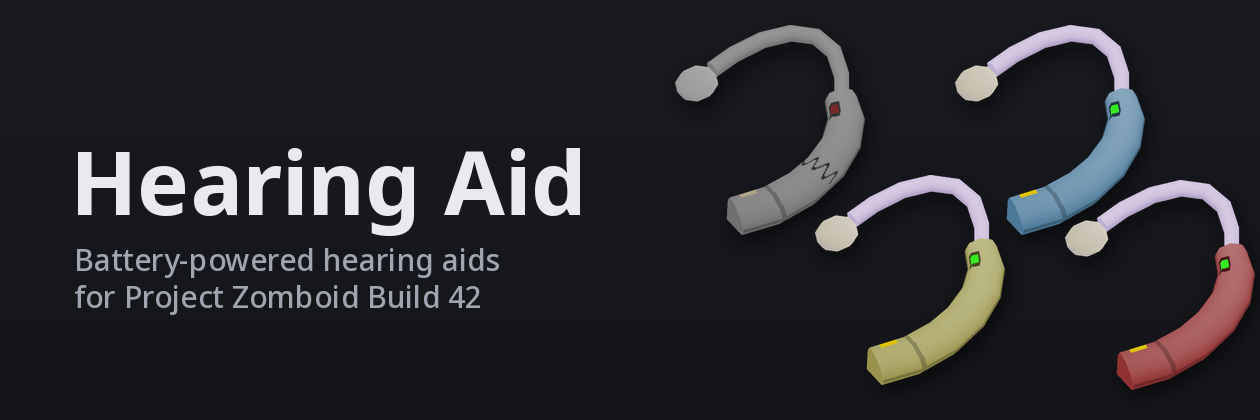
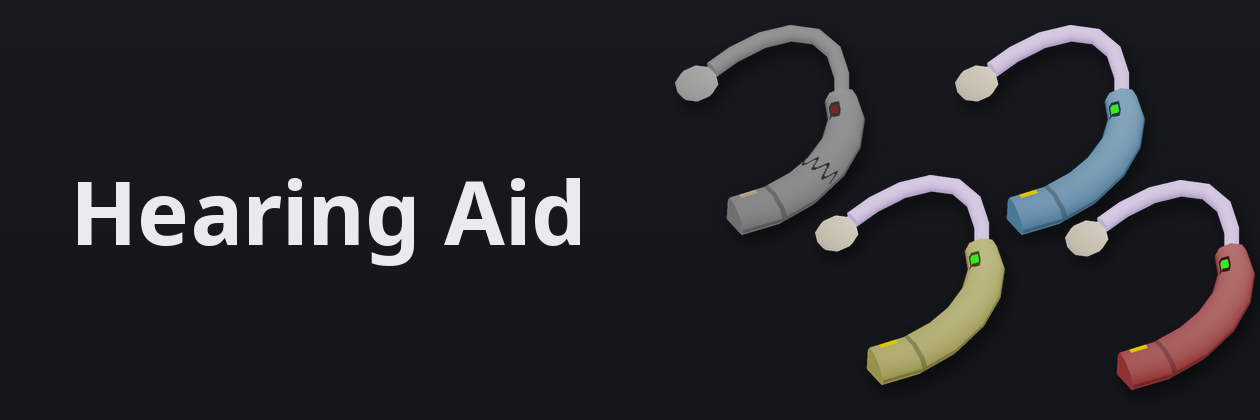
Raise hearing aid loot 20% and lead the docs with what the mod is for
Every loot weight is 20% higher than the halved values, except the efficient aids in containers, which stay at the game's smallest chance. A broken aid is now about 4 times rarer than a wristwatch and a working one about 7 times rarer: in 12,000 ordinary corpses, 7.3% carry a broken aid, 4.5% a working one, and 11.4% any aid. hearingaid_corpse_loot checks the new bounds.

The README and Workshop page open with what the mod gives a Deaf or Hard of Hearing character: a way out of the trait. They call each tier a hearing aid model, never "the aids", and list the sandbox options as bullets under their in-game names. The banner and mod.info drop the "battery-powered hearing aids for Project Zomboid" tagline.

Changed region(s): [[0.0619, 0.3405, 0.4643, 0.7429]]

diff --git a/art/promo/compose.py b/art/promo/compose.py
@@ -133,8 +133,7 @@ def save(image, name):
 
 def banner():
     image = canvas(420)
-    text(image, (70, 120), "Hearing Aid", 88, "Bold")
-    text(image, (74, 238), "Battery-powered hearing aids\nfor Project Zomboid Build 42", 30, "Medium", MUTED)
+    text(image, (70, 210), "Hearing Aid", 88, "Bold", anchor="lm")
     positions = [(770, 130), (910, 280), (1050, 130), (1160, 285)]
     for tier, centre in zip(TIERS, positions):
         paste(image, fit(trim(capture(f"model_{tier}")), 210, 210), centre)

diff --git a/README.md b/README.md
@@ -1,6 +1,6 @@
-# ![Hearing Aid: battery-powered hearing aids for Project Zomboid Build 42](art/promo/images/banner.png)
+# ![Hearing Aid](art/promo/images/banner.png)
 
-Battery-powered hearing aids for Project Zomboid. Wear a working aid and switch it on, and a Hard of Hearing character hears normally while a Deaf one hears a little. A boosted aid gives Keen Hearing to anyone who isn't Deaf.
+Take Deaf or Hard of Hearing and work your way out of it. Most hearing aids you find are broken. Repair one, and a Hard of Hearing character hears normally. Upgrade it twice, and a Deaf character hears normally too, while anyone else gets Keen Hearing. Working hearing aids run on batteries.
 
 **Status**: Requires Build 42.21 or newer. Tested in single player on 42.21.0. Multiplayer is untested: the server owns battery drain and hearing traits, and the mod loads on a dedicated server, but nobody has played it with clients connected.
 
@@ -8,48 +8,48 @@ Battery-powered hearing aids for Project Zomboid. Wear a working aid and switch 
 
 Subscribe on the [Steam Workshop page](https://steamcommunity.com/sharedfiles/filedetails/?id=2931424725) and enable **Hearing Aid** in the mod list. Build 41 loads the original release, which this repository keeps unchanged in `Contents/mods/HearingAid/media`.
 
-## The aids
+## Hearing aid models
 
-<p align="center"><img src="art/promo/images/tiers.png" alt="Each of the four aids as a 3D model, worn behind a right ear, and as an inventory icon" width="100%"></p>
+<p align="center"><img src="art/promo/images/tiers.png" alt="Each of the four hearing aid models in 3D, worn behind a right ear, and as an inventory icon" width="100%"></p>
 
-| Aid | Hard of Hearing becomes | Deaf becomes | A battery lasts | How you get one |
+| Model | Hard of Hearing becomes | Deaf becomes | A battery lasts | How you get one |
 |---|---|---|---|---|
-| Broken Hearing Aid | no change | no change | | Most aids you find are broken |
+| Broken Hearing Aid | no change | no change | | Most hearing aids you find are broken |
 | Hearing Aid | Normal hearing | Hard of Hearing | 2 days | Find one, or repair a broken one |
 | Efficient Hearing Aid | Normal hearing | Hard of Hearing | 6 days | A lucky find, or optimize a hearing aid |
-| Boosted Hearing Aid | Keen Hearing | Normal hearing | 4 days | Boost an efficient aid |
+| Boosted Hearing Aid | Keen Hearing | Normal hearing | 4 days | Boost an Efficient Hearing Aid |
 
-A boosted aid also gives Keen Hearing to a character whose hearing is normal.
+A Boosted Hearing Aid also gives Keen Hearing to a character whose hearing is normal.
 
 ## Wearing one
 
 <p align="center"><img src="art/promo/images/ears.png" alt="A man wearing a hearing aid on his right ear and a woman wearing one on her left, above the Wear menu with its on Right Ear and on Left Ear options" width="100%"></p>
 
-To hear better, you need a working aid with a charged battery, on your ear and switched on:
+To hear better, you need a working hearing aid with a charged battery, on your ear and switched on:
 
-1. Find a working aid, or find a broken one and [repair it](#crafting).
-2. Right-click the aid and choose **Add Battery**. It takes the same Battery as a flashlight, and the menu lists yours by charge.
-3. Right-click the aid, choose **Wear**, and pick **on Right Ear** or **on Left Ear**. Then right-click it again and choose **Turn On**. The same menu moves a worn aid to your other ear.
+1. Find a working hearing aid, or find a broken one and [repair it](#crafting).
+2. Right-click it and choose **Add Battery**. It takes the same Battery as a flashlight, and the menu lists yours by charge.
+3. Right-click it, choose **Wear**, and pick **on Right Ear** or **on Left Ear**. Then right-click it again and choose **Turn On**. The same menu moves it to your other ear.
 
 <p align="center"><img src="art/promo/images/interface.png" alt="Tooltips of a switched-off Hearing Aid with 40% battery, a switched-on Boosted Hearing Aid with 73%, and a Broken Hearing Aid" width="100%"></p>
 
-The battery drains only while the aid is worn and switched on, so switch it off when you don't need it. The tooltip shows the charge and whether the aid is on. Take the aid off, switch it off, or let the battery run flat, and you hear as you did before. **Remove Battery** gives the battery back with whatever charge it has left.
+The battery drains only while the hearing aid is worn and switched on. The tooltip shows the charge and whether it's on. Take it off, switch it off, or let the battery run flat, and you hear as you did before. **Remove Battery** gives the battery back with whatever charge it has left.
 
 ## Finding one
 
 <p align="center"><img src="art/promo/images/corpse.png" alt="A grey-haired survivor next to a corpse whose loot window lists a Hearing Aid" width="100%"></p>
 
-Most hearing aids in Knox County are still in their owners' ears, and the owners won't mind if you take them, so search the dead first. Zombies dressed as retirees carry them most often, and they gather in nursing homes, trailer parks, golf courses, country clubs, and rich neighborhoods. Hospital patients come next. Other zombies carry them less often.
+Most hearing aids are still in their owners' ears, and the owners won't mind if you take them, so search the dead first. Zombies dressed as retirees carry them most often, and they gather in nursing homes, trailer parks, golf courses, country clubs, and rich neighborhoods. Hospital patients come next. Other zombies carry them less often.
 
-Off the ear, hospitals hold the most: the wardrobes beside patients' beds, doctors' desks, which hold only working aids, and waiting room desks. Lost and found boxes hold some too. In houses, look in bedside tables, dressers, living room side tables, bathroom cabinets and counters, and boxes of old electronics. Pharmacies, optical stores, and electronics stores didn't sell hearing aids in 1993, so they have none.
+Off the ear, hospitals hold the most: the wardrobes beside patients' beds, doctors' desks, which hold only working ones, and waiting room desks. Lost and found boxes hold some too. In houses, look in bedside tables, dressers, living room side tables, bathroom cabinets and counters, and boxes of old electronics. Pharmacies, optical stores, and electronics stores didn't sell hearing aids in 1993, so they have none.
 
-Most aids you find are broken, and efficient ones are rare. Half the working ones still hold a partly used battery. Hearing aids count as Medical loot, so the Medical loot rarity setting scales them too.
+Most hearing aids you find are broken, and efficient ones are rare. Half the working ones still hold a partly used battery. Hearing aids count as Medical loot, so the Medical loot rarity setting scales them too.
 
 ## Crafting
 
 <p align="center"><img src="art/promo/images/recipes.png" alt="The tools every recipe needs, and the inputs and result of the Repair, Optimize and Boost recipes" width="100%"></p>
 
-Repairs and upgrades need a table or counter within reach, enough light to see by, a screwdriver, tweezers, and reading glasses or a magnifier (a Loupe or a Magnifying Glass). You can wear the glasses while you work, but the aid has to come off your ear. The new aid keeps the old one's battery, and stays switched on if it was on.
+Repairs and upgrades need a table or counter within reach, enough light to see by, a screwdriver, tweezers, and reading glasses or a magnifier (a Loupe or a Magnifying Glass). You can wear the glasses while you work, but the hearing aid has to come off your ear. The new hearing aid keeps the old one's battery, and stays switched on if the old one was on.
 
 | Recipe | Electrical | Makes | Uses up |
 |---|---|---|---|
@@ -59,13 +59,22 @@ Repairs and upgrades need a table or counter within reach, enough light to see b
 
 Boosting also needs a Scalpel, which you keep.
 
-The earbuds give the aid a new speaker, the alcohol cleans its corroded battery contacts, and the watch gives it a low-power chip. Everything a repair needs turns up in ordinary houses. For a boost, dismantle a Speaker for its Amplifier, and look for a Microphone in music stores, band practice rooms, and electronics stores.
+The earbuds supply a new speaker, the alcohol cleans the corroded battery contacts, and the watch supplies a low-power chip. Everything a repair needs turns up in ordinary houses. For a boost, dismantle a Speaker for its Amplifier, and look for a Microphone in music stores, band practice rooms, and electronics stores.
 
-**Dismantle Hearing Aid** needs only a screwdriver and no table. It turns any aid into Scrap Electronics and gives its battery back.
+**Dismantle Hearing Aid** needs only a screwdriver and no table. It turns any hearing aid into Scrap Electronics and gives its battery back.
 
 ## Sandbox options
 
-The **Hearing Aid** page of the sandbox options sets the battery life of each tier, the Electrical level each recipe needs, separate loot multipliers for broken and working aids, the chance that a found aid holds a battery, how aids help Deaf characters, and whether boosted aids can be crafted. Everything above describes the defaults.
+The **Hearing Aid** page of the sandbox options holds:
+
+- **Battery Life**: in-game hours a full battery lasts, for each working model.
+- **Electrical Level**: the level each recipe needs. 0 removes the requirement.
+- **Broken Hearing Aid Loot** and **Working Hearing Aid Loot**: multiply how often each spawns. 0 disables them.
+- **Found With Battery Chance**: how often a working hearing aid you find still holds a battery.
+- **Handle Deafness**: whether hearing aids help a Deaf character, and how much.
+- **Enable Boosted Hearing Aids**: whether you can boost an Efficient Hearing Aid.
+
+Everything above describes the defaults.
 
 ## Development
 
@@ -76,9 +85,9 @@ The source art lives in `art/`: GIMP drawings for the icons and the poster in `a
 ```sh
 dev/validate-server.sh            # boots a headless dedicated server; fails if the mod logs an error
 dev/run-debug-client.sh --test    # runs every in-game test unattended in about 2 minutes
-dev/run-debug-client.sh --art     # saves in-game close-ups of the worn and dropped aids
+dev/run-debug-client.sh --art     # saves in-game close-ups of the worn and dropped hearing aids
 dev/run-debug-client.sh --promo   # captures the art for this README from the game
-dev/run-debug-client.sh --loot    # measures how often corpses and containers hold aids
+dev/run-debug-client.sh --loot    # measures how often corpses and containers hold hearing aids
 art/promo/compose.py              # lays out the images from the captures
 art/models/make.sh                # rebuilds the models and textures with Blender
 ```

diff --git a/DEVELOPMENT.md b/DEVELOPMENT.md
@@ -195,7 +195,7 @@ The table lists where the events the mod handles fire. Battery drain runs on `Ev
 
 `HearingAidLoot.report(samples)` in `client/HearingAid/Debug/HearingAidLoot.lua` measures, in any debug game, how often a corpse or a container holds a wristwatch, a broken aid, a working aid, an efficient aid, and any aid. For each kind of zombie it picks outfits as `dressInRandomOutfit` does, dresses a scratch `SurvivorDesc` with `HumanVisual.dressInNamedOutfit`, and rolls the corpse lists into a scratch container with `ItemPickerJava.rollItem`, as `ItemPickerJava.fillContainer` does for a corpse. For each container it rolls the list with `rollItem`, which rolls its junk list first, as a procedural container does. Items in bags and boxes inside count, but it doesn't fill the bags a zombie wears. While it runs, the Zombies option and the population multiplier are at their defaults, the zombie density bonus and annotated maps are off, and so is the General debug log. `report(4000)` takes about 50 seconds, and `report(10000)` ran the client out of its 3 GB of memory. `HearingAidLoot.measureZombies(key, samples)` and `measureContainer(key, samples)` measure one entry, and one entry at a time can take 40,000 samples.
 
-The weights in `HearingAidDistributions.lua` follow one rule, measured against the wristwatches on the same corpses or in the same plain house list: a broken aid is 5 times rarer than a wristwatch (anywhere from 4 to 6.5 times is fine) and a working aid 8 times rarer (6 to 11 times). Retirees carry an aid three times as often as ordinary zombies and hospital patients twice as often, with the same split between broken and working. The classy and redneck house lists get the weights of the plain one, and lists without wristwatches are weighted relative to the bedside table. To retune, measure the wristwatch share with at least 40,000 samples, since in a container it's only a few percent, work out the chance per roll that gives the target share over the list's rolls, and turn it into a weight with the formula above.
+The weights in `HearingAidDistributions.lua` follow one rule, measured against the wristwatches on the same corpses or in the same plain house list: a broken aid is 4 times rarer than a wristwatch (anywhere from 3.3 to 5.5 times is fine) and a working aid 7 times rarer (5.5 to 9.5 times). Retirees carry an aid three times as often as ordinary zombies and hospital patients twice as often, with the same split between broken and working. The classy and redneck house lists get the weights of the plain one, and lists without wristwatches are weighted relative to the bedside table. To retune, measure the wristwatch share with at least 40,000 samples, since in a container it's only a few percent, work out the chance per roll that gives the target share over the list's rolls, and turn it into a weight with the formula above.
 
 ## Art
 
